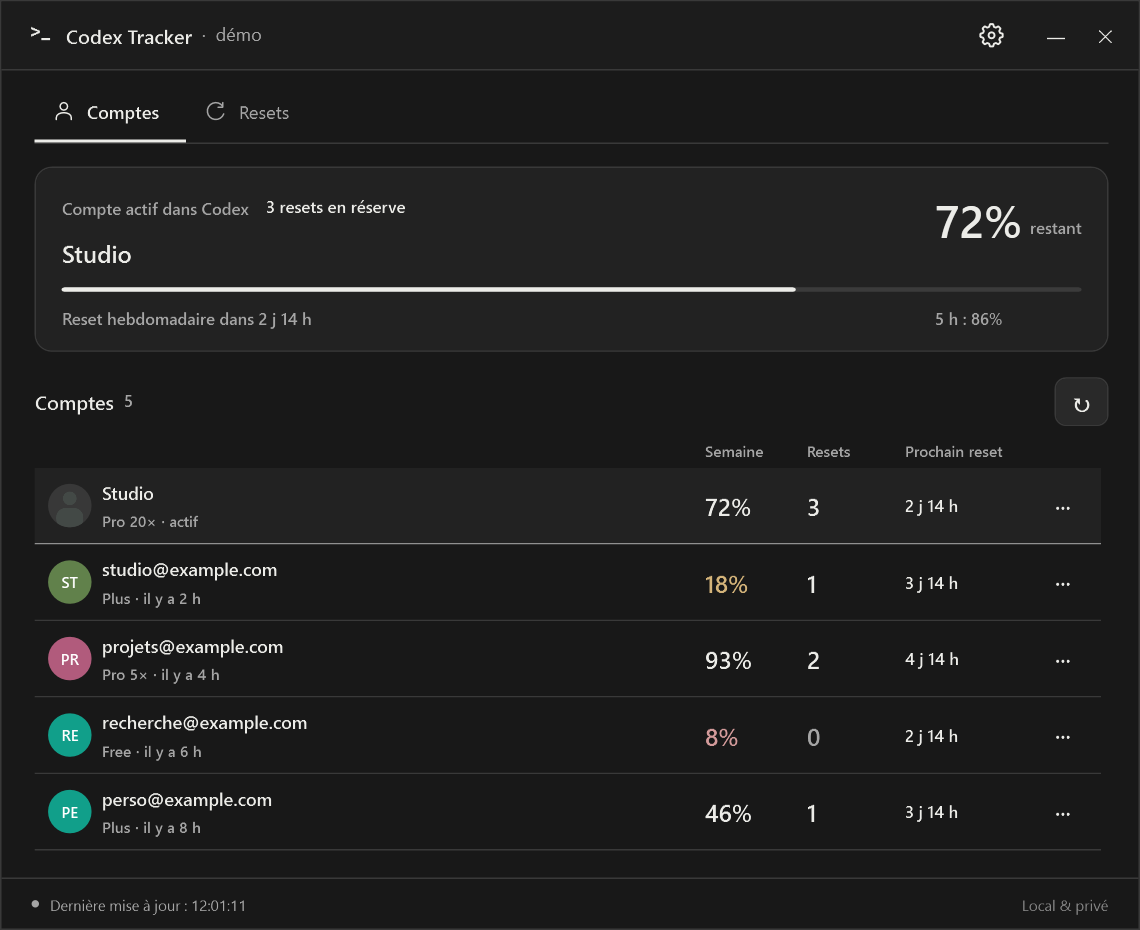
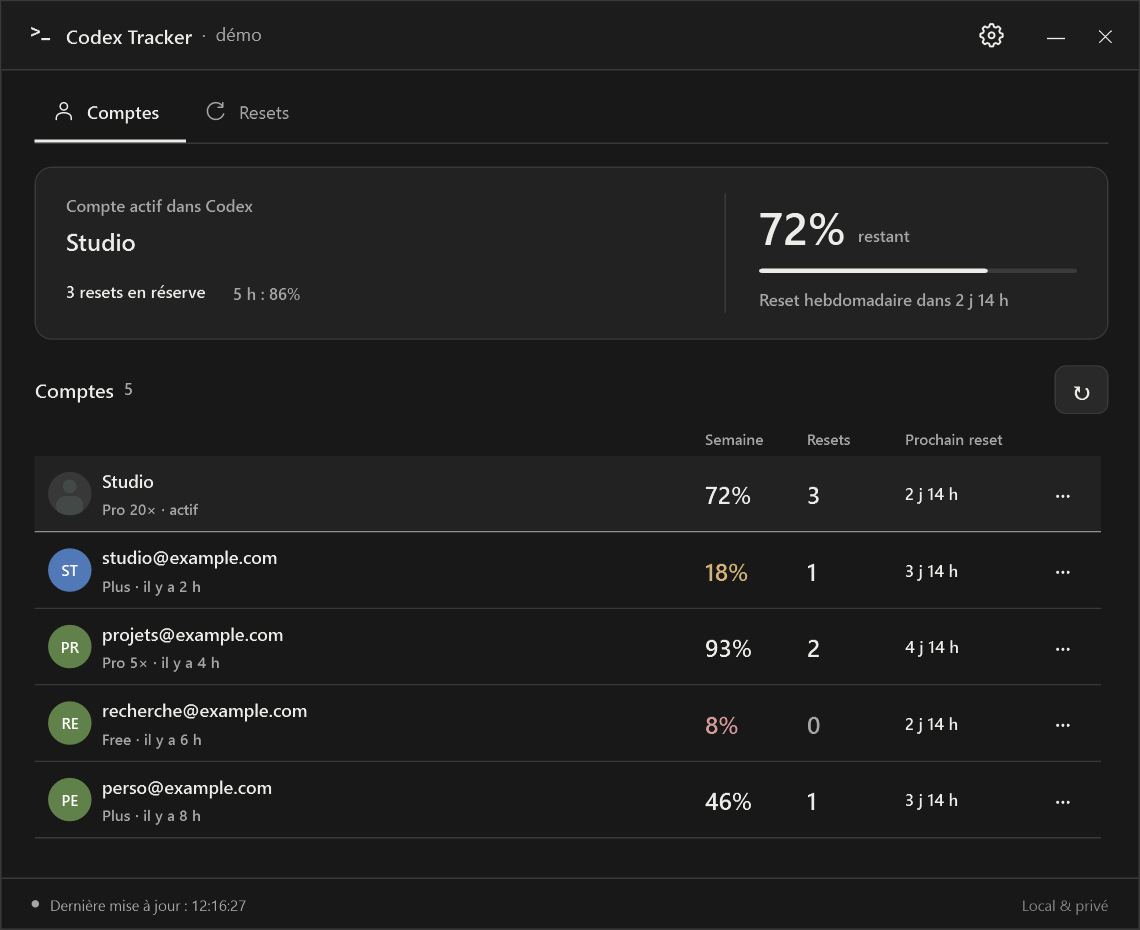
Clarify reset types and apply the two-zone account summary

diff --git a/src/CodexTracker.App/MainWindow.xaml b/src/CodexTracker.App/MainWindow.xaml
@@ -19,12 +19,32 @@
    <TabItem Header="Comptes" Tag="{StaticResource AccountsIcon}" Style="{StaticResource MainTabStyle}">
    <Grid Margin="0,15,0,0"><Grid.RowDefinitions><RowDefinition Height="Auto"/><RowDefinition Height="Auto"/><RowDefinition Height="Auto"/><RowDefinition Height="Auto"/><RowDefinition Height="*"/></Grid.RowDefinitions>
    <Border Background="{DynamicResource PanelBrush}" BorderBrush="{DynamicResource LineBrush}" BorderThickness="1" CornerRadius="9" Padding="13,10" Margin="0,0,0,13" Visibility="{Binding ShowOnboarding, Converter={StaticResource BoolVisibility}}"><Grid><Grid.ColumnDefinitions><ColumnDefinition Width="*"/><ColumnDefinition Width="Auto"/></Grid.ColumnDefinitions><TextBlock Text="Changez de compte dans Codex : le tracker suit automatiquement. Glissez son icône près de l’horloge pour la garder visible." TextWrapping="Wrap" Foreground="{DynamicResource MutedBrush}" FontSize="11" Margin="0,0,14,0"/><Button Grid.Column="1" Content="Compris" Click="Onboarding_Click" Padding="9,5" VerticalAlignment="Center"/></Grid></Border>
-   <Border Grid.Row="1" Background="{DynamicResource PanelBrush}" BorderBrush="{DynamicResource LineBrush}" BorderThickness="1" CornerRadius="11" Padding="17,14" Visibility="{Binding HasActive, Converter={StaticResource BoolVisibility}}"><Grid><Grid.RowDefinitions><RowDefinition Height="Auto"/><RowDefinition Height="Auto"/><RowDefinition Height="Auto"/></Grid.RowDefinitions><Grid.ColumnDefinitions><ColumnDefinition Width="*"/><ColumnDefinition Width="Auto"/></Grid.ColumnDefinitions>
-        <StackPanel><WrapPanel VerticalAlignment="Center"><TextBlock Text="{Binding Active.SummaryLabel}" Foreground="{DynamicResource MutedBrush}" FontSize="11" VerticalAlignment="Center" Margin="0,0,12,0"/><Border Style="{StaticResource ReserveMetric}" Margin="0,0,8,0"><Border.ToolTip><ToolTip Content="{Binding Active.ReserveHint}" ContentTemplate="{StaticResource ReserveTooltip}"/></Border.ToolTip><TextBlock Text="{Binding Active.ReserveSummary}" Foreground="{Binding Active.ReserveBrush}" FontSize="11" FontWeight="SemiBold"/></Border></WrapPanel><TextBlock Text="{Binding Active.Email}" FontSize="16" FontWeight="SemiBold" TextTrimming="CharacterEllipsis" Margin="0,5,15,0" ToolTip="{Binding Active.Email}"/></StackPanel>
-    <StackPanel Grid.Column="1" HorizontalAlignment="Right"><StackPanel Orientation="Horizontal"><TextBlock Text="{Binding Active.WeeklyNumber}" FontFamily="Segoe UI" TextOptions.TextFormattingMode="Ideal" FontSize="30" FontWeight="SemiBold" Foreground="{Binding Active.WeeklyBrush}"/><TextBlock Text=" restant" Foreground="{DynamicResource MutedBrush}" FontSize="11" VerticalAlignment="Bottom" Margin="2,0,0,7"/></StackPanel></StackPanel>
-    <ProgressBar Grid.Row="1" Grid.ColumnSpan="2" Value="{Binding Active.WeeklyPercent, Mode=OneWay}" Foreground="{Binding Active.WeeklyBrush}" Margin="0,12,0,10"/>
-    <TextBlock Grid.Row="2" Text="{Binding Active.SummaryReset}" ToolTip="{Binding Active.ResetHint}" Foreground="{DynamicResource MutedBrush}" FontSize="11" TextTrimming="CharacterEllipsis" Margin="0,0,12,0"/><TextBlock Grid.Row="2" Grid.Column="1" Text="{Binding Active.ShortSummary}" Foreground="{DynamicResource MutedBrush}" FontSize="11"/>
-   </Grid></Border>
+   <Border x:Name="ActiveAccountCard" Grid.Row="1" Background="{DynamicResource PanelBrush}" BorderBrush="{DynamicResource LineBrush}" BorderThickness="1" CornerRadius="11" Padding="20,17" Visibility="{Binding HasActive, Converter={StaticResource BoolVisibility}}">
+    <Grid>
+     <Grid.ColumnDefinitions><ColumnDefinition Width="*"/><ColumnDefinition Width="235"/></Grid.ColumnDefinitions>
+     <StackPanel Margin="0,0,22,0" VerticalAlignment="Center">
+      <TextBlock Text="{Binding Active.SummaryLabel}" Foreground="{DynamicResource MutedBrush}" FontSize="11"/>
+      <TextBlock Text="{Binding Active.Email}" FontSize="16" FontWeight="SemiBold" TextTrimming="CharacterEllipsis" Margin="0,5,0,0" ToolTip="{Binding Active.Email}"/>
+      <WrapPanel Margin="0,11,0,0">
+       <Border Style="{StaticResource ReserveMetric}" Margin="0,0,18,0">
+        <Border.ToolTip><ToolTip Content="{Binding Active.ReserveHint}" ContentTemplate="{StaticResource ReserveTooltip}"/></Border.ToolTip>
+        <TextBlock Text="{Binding Active.ReserveSummary}" Foreground="{Binding Active.ReserveBrush}" FontSize="11" FontWeight="SemiBold"/>
+       </Border>
+       <TextBlock Text="{Binding Active.ShortSummary}" Foreground="{DynamicResource MutedBrush}" FontSize="11" VerticalAlignment="Center"/>
+      </WrapPanel>
+     </StackPanel>
+     <Border Grid.Column="1" BorderBrush="{DynamicResource LineBrush}" BorderThickness="1,0,0,0" Padding="22,0,0,0">
+      <StackPanel VerticalAlignment="Center">
+       <StackPanel Orientation="Horizontal">
+        <TextBlock Text="{Binding Active.WeeklyNumber}" TextOptions.TextFormattingMode="Ideal" FontSize="30" FontWeight="SemiBold" Foreground="{Binding Active.WeeklyBrush}"/>
+        <TextBlock Text="restant" Foreground="{DynamicResource MutedBrush}" FontSize="11" VerticalAlignment="Bottom" Margin="8,0,0,7"/>
+       </StackPanel>
+       <ProgressBar Value="{Binding Active.WeeklyPercent, Mode=OneWay}" Foreground="{Binding Active.WeeklyBrush}" Margin="0,8,0,10"/>
+       <TextBlock Text="{Binding Active.SummaryReset}" ToolTip="{Binding Active.ResetHint}" Foreground="{DynamicResource MutedBrush}" FontSize="11" TextWrapping="Wrap"/>
+      </StackPanel>
+     </Border>
+    </Grid>
+   </Border>
    <Grid Grid.Row="2" Margin="1,9,0,0" Visibility="{Binding HasAdvice, Converter={StaticResource BoolVisibility}}" ToolTip="{Binding AdviceHint}">
     <Grid.ColumnDefinitions><ColumnDefinition Width="*"/><ColumnDefinition Width="Auto"/></Grid.ColumnDefinitions>
     <StackPanel><TextBlock Text="{Binding AdviceTitle}" FontSize="11" TextTrimming="CharacterEllipsis"/><TextBlock Text="{Binding AdviceAge}" FontSize="10" Foreground="{DynamicResource MutedBrush}" Margin="0,3,0,0"/></StackPanel>

diff --git a/src/CodexTracker.App/App.xaml b/src/CodexTracker.App/App.xaml
@@ -16,6 +16,12 @@
   <Style TargetType="ProgressBar"><Setter Property="Height" Value="3"/><Setter Property="Background" Value="{DynamicResource TrackBrush}"/><Setter Property="BorderThickness" Value="0"/><Setter Property="Foreground" Value="{DynamicResource AccentBrush}"/><Setter Property="Template"><Setter.Value><ControlTemplate TargetType="ProgressBar"><Grid><Border Background="{TemplateBinding Background}" CornerRadius="2"/><Border x:Name="PART_Track"/><Border x:Name="PART_Indicator" Background="{TemplateBinding Foreground}" HorizontalAlignment="Left" CornerRadius="2"/></Grid></ControlTemplate></Setter.Value></Setter></Style>
   <Style TargetType="CheckBox"><Setter Property="Foreground" Value="{DynamicResource TextBrush}"/><Setter Property="FontSize" Value="12"/><Setter Property="Cursor" Value="Hand"/><Setter Property="Template"><Setter.Value><ControlTemplate TargetType="CheckBox"><Grid><Grid.ColumnDefinitions><ColumnDefinition Width="20"/><ColumnDefinition Width="*"/></Grid.ColumnDefinitions><Border x:Name="Box" Width="17" Height="17" BorderBrush="{DynamicResource LineBrush}" BorderThickness="1" Background="{DynamicResource ButtonBrush}" CornerRadius="4"><TextBlock x:Name="Mark" Text="✓" Visibility="Collapsed" FontSize="12" FontWeight="SemiBold" HorizontalAlignment="Center" VerticalAlignment="Center"/></Border><ContentPresenter Grid.Column="1" Margin="8,0,0,0" VerticalAlignment="Center"/></Grid><ControlTemplate.Triggers><Trigger Property="IsChecked" Value="True"><Setter TargetName="Mark" Property="Visibility" Value="Visible"/><Setter TargetName="Box" Property="BorderBrush" Value="{DynamicResource FocusBrush}"/></Trigger><Trigger Property="IsKeyboardFocused" Value="True"><Setter TargetName="Box" Property="BorderBrush" Value="{DynamicResource TextBrush}"/></Trigger><Trigger Property="IsEnabled" Value="False"><Setter Property="Opacity" Value="0.4"/></Trigger></ControlTemplate.Triggers></ControlTemplate></Setter.Value></Setter></Style>
   <Geometry x:Key="AccountsIcon">M16,7 A4,4 0 1 1 8,7 A4,4 0 1 1 16,7 M4,21 L4,19 C4,12 20,12 20,19 L20,21</Geometry>
+  <Geometry x:Key="ResetClockIcon">M21,12 A9,9 0 1 1 3,12 A9,9 0 1 1 21,12 M12,6 L12,12 16,14</Geometry>
+  <Geometry x:Key="ResetReserveIcon">M4,6 L20,6 20,20 4,20 Z M3,3 L21,3 21,6 3,6 Z M9,11 L15,11 M12,8 L12,14</Geometry>
+  <Style x:Key="ResetKindFilter" TargetType="RadioButton">
+   <Setter Property="Foreground" Value="{DynamicResource MutedBrush}"/><Setter Property="FontSize" Value="12"/><Setter Property="Padding" Value="12,7"/><Setter Property="Cursor" Value="Hand"/>
+   <Setter Property="Template"><Setter.Value><ControlTemplate TargetType="RadioButton"><Border x:Name="Filter" Background="Transparent" BorderThickness="1" BorderBrush="Transparent" CornerRadius="6" Padding="{TemplateBinding Padding}"><ContentPresenter VerticalAlignment="Center"/></Border><ControlTemplate.Triggers><Trigger Property="IsChecked" Value="True"><Setter TargetName="Filter" Property="Background" Value="{DynamicResource PanelBrush}"/><Setter Property="Foreground" Value="{DynamicResource TextBrush}"/><Setter Property="FontWeight" Value="SemiBold"/></Trigger><Trigger Property="IsMouseOver" Value="True"><Setter TargetName="Filter" Property="Background" Value="{DynamicResource ButtonHoverBrush}"/></Trigger><Trigger Property="IsKeyboardFocused" Value="True"><Setter TargetName="Filter" Property="BorderBrush" Value="{DynamicResource FocusBrush}"/></Trigger></ControlTemplate.Triggers></ControlTemplate></Setter.Value></Setter>
+  </Style>
   <Geometry x:Key="SettingsGeneralIcon">M4,7 L20,7 M4,17 L20,17 M8,4 L8,10 M16,14 L16,20</Geometry>
   <Geometry x:Key="SettingsNotificationsIcon">M6,10 C6,2 18,2 18,10 L18,15 21,18 3,18 6,15 Z M9,21 L15,21</Geometry>
   <Geometry x:Key="SettingsApplicationIcon">M3,4 L21,4 21,20 3,20 Z M3,9 L21,9 M7,6.5 L7.1,6.5 M10,6.5 L10.1,6.5</Geometry>

diff --git a/src/CodexTracker.App/ResetsView.cs b/src/CodexTracker.App/ResetsView.cs
@@ -17,29 +17,43 @@ internal sealed class ResetsView : UserControl
     private TrackerState _state = new([], null);
     private DateTimeOffset? _nextBoundary;
     private bool _syncing;
+    private ResetKind? _kindFilter;
 
     internal ResetsView(PreferencesStore preferences, Action<Guid?> calendar, Action refresh)
     {
         _preferences = preferences;
-        var root = new Grid { Margin = new Thickness(0, 17, 0, 0) };
+        var root = new Grid { Margin = new Thickness(0, 15, 0, 0) };
+        root.RowDefinitions.Add(new RowDefinition { Height = GridLength.Auto });
         root.RowDefinitions.Add(new RowDefinition { Height = GridLength.Auto });
         root.RowDefinitions.Add(new RowDefinition { Height = GridLength.Auto });
         root.RowDefinitions.Add(new RowDefinition());
         var heading = new Grid(); heading.ColumnDefinitions.Add(new ColumnDefinition()); heading.ColumnDefinitions.Add(new ColumnDefinition { Width = GridLength.Auto });
-        var title = Ui.Text("Les échéances de vos comptes", 20); title.FontWeight = FontWeights.SemiBold; heading.Children.Add(title);
-        var export = new Button { Content = "Google Agenda ↗", Style = (Style)FindResource("QuietButton"), VerticalAlignment = VerticalAlignment.Top, Margin = new Thickness(12, 0, 0, 0), ToolTip = "Ajouter une échéance ou importer les dates dans un agenda" };
+        var title = Ui.Text("Calendrier des resets", 20); title.FontWeight = FontWeights.SemiBold; heading.Children.Add(title);
+        var export = new Button { Content = "Google Agenda ↗", Style = (Style)FindResource("QuietButton"), VerticalAlignment = VerticalAlignment.Top, Margin = new Thickness(12, 0, 0, 0), ToolTip = "Options Google Agenda pour le compte sélectionné, tous les types de resets" };
         Grid.SetColumn(export, 1); heading.Children.Add(export);
         var introduction = new StackPanel(); introduction.Children.Add(heading); _summary.Margin = new Thickness(0, 7, 0, 5); introduction.Children.Add(_summary); introduction.Children.Add(_reserves); root.Children.Add(introduction);
 
-        var filters = new Grid { Margin = new Thickness(0, 18, 0, 12) }; filters.ColumnDefinitions.Add(new ColumnDefinition { Width = new GridLength(230) }); filters.ColumnDefinitions.Add(new ColumnDefinition()); filters.ColumnDefinitions.Add(new ColumnDefinition { Width = GridLength.Auto });
+        var filters = new Grid { Margin = new Thickness(0, 14, 0, 10) }; filters.ColumnDefinitions.Add(new ColumnDefinition { Width = new GridLength(230) }); filters.ColumnDefinitions.Add(new ColumnDefinition()); filters.ColumnDefinitions.Add(new ColumnDefinition { Width = GridLength.Auto });
         _accounts = new ComboBox { DisplayMemberPath = "Label", SelectedValuePath = "Id", Tag = FindResource("AccountsIcon") };
         export.Click += (_, _) => calendar((_accounts.SelectedItem as ResetAccountChoice)?.Id);
         System.Windows.Automation.AutomationProperties.SetName(_accounts, "Filtrer les resets par compte");
         _accounts.SelectionChanged += (_, _) => { if (!_syncing) Render(); }; filters.Children.Add(_accounts);
         _refresh = new Button { Content = "Actualiser", Style = (Style)FindResource("QuietButton"), ToolTip = "Actualise le compte actif dans Codex ; les autres conservent leur dernier relevé" };
         _refresh.Click += (_, _) => refresh(); Grid.SetColumn(_refresh, 2); filters.Children.Add(_refresh); Grid.SetRow(filters, 1); root.Children.Add(filters);
+        var kinds = new WrapPanel { Margin = new Thickness(0, 0, 0, 3) };
+        foreach (var (kind, label) in new (ResetKind?, string)[] { (null, "Tous"), (ResetKind.Weekly, "Hebdomadaires"), (ResetKind.Short, "5 heures"), (ResetKind.Reserve, "Réserves") })
+        {
+            var content = new StackPanel { Orientation = Orientation.Horizontal };
+            if (kind is { } value) { var icon = KindIcon(value, 14); icon.Margin = new Thickness(0, 0, 7, 0); content.Children.Add(icon); }
+            content.Children.Add(new TextBlock { Text = label, VerticalAlignment = VerticalAlignment.Center });
+            var choice = new RadioButton { Content = content, Tag = kind, GroupName = "ResetKinds", IsChecked = kind is null, Style = (Style)FindResource("ResetKindFilter"), Margin = new Thickness(0, 0, 4, 0) };
+            System.Windows.Automation.AutomationProperties.SetName(choice, label);
+            choice.Checked += (_, _) => { _kindFilter = kind; Render(); };
+            kinds.Children.Add(choice);
+        }
+        Grid.SetRow(kinds, 2); root.Children.Add(kinds);
         var scroll = new ScrollViewer { Content = _timeline, VerticalScrollBarVisibility = ScrollBarVisibility.Auto, HorizontalScrollBarVisibility = ScrollBarVisibility.Disabled };
-        Grid.SetRow(scroll, 2); root.Children.Add(scroll); Content = root;
+        Grid.SetRow(scroll, 3); root.Children.Add(scroll); Content = root;
     }
     internal void Update(TrackerState state)
     {
@@ -59,7 +73,7 @@ internal sealed class ResetsView : UserControl
     {
         var accountId = (_accounts.SelectedItem as ResetAccountChoice)?.Id;
         var accounts = _state.Accounts.Where(a => accountId is null || a.Profile.Id == accountId).ToArray();
-        var entries = ResetSchedule.Entries(_state, accountId);
+        var entries = ResetSchedule.Entries(_state, accountId).Where(e => _kindFilter is null || e.Kind == _kindFilter).ToArray();
         var now = DateTimeOffset.UtcNow;
         var future = entries.Where(e => e.At > now).ToArray();
         var reached = entries.Where(e => e.At <= now).OrderByDescending(e => e.At).ToArray();
@@ -72,7 +86,7 @@ internal sealed class ResetsView : UserControl
         AddGroup("À venir", future);
         AddGroup("Dates atteintes · à vérifier", reached);
         AddGroup("Dates non communiquées", unknown, showCount: false);
-        if (entries.Count == 0) { var empty = Ui.Text("Aucune échéance à afficher pour le moment.", 13, "MutedBrush"); empty.Margin = new Thickness(0, 24, 0, 0); _timeline.Children.Add(empty); }
+        if (entries.Length == 0) { var empty = Ui.Text(_kindFilter == ResetKind.Reserve ? "Aucune réserve à afficher pour cette sélection." : "Aucune échéance à afficher pour cette sélection.", 13, "MutedBrush"); empty.Margin = new Thickness(0, 24, 0, 0); _timeline.Children.Add(empty); }
         _nextBoundary = future.FirstOrDefault()?.At;
         UpdateTimes(now);
     }
@@ -82,24 +96,38 @@ internal sealed class ResetsView : UserControl
         var heading = Ui.Text(showCount ? $"{title}  ·  {entries.Count}" : title, 12, "MutedBrush"); heading.FontWeight = FontWeights.SemiBold; heading.Margin = new Thickness(0, 13, 0, 7); _timeline.Children.Add(heading);
         foreach (var entry in entries)
         {
-            var row = new Grid(); row.ColumnDefinitions.Add(new ColumnDefinition()); row.ColumnDefinitions.Add(new ColumnDefinition { Width = new GridLength(190) });
-            var identity = new StackPanel { Margin = new Thickness(0, 0, 18, 0) };
-            var account = Ui.Text(AccountName(entry.Account), 12); account.FontWeight = FontWeights.SemiBold; identity.Children.Add(account);
-            var kind = entry.Kind switch { ResetKind.Weekly => "Reset hebdomadaire", ResetKind.Short => "Reset de la fenêtre 5 heures", _ => "Expiration d’un reset en réserve" };
-            if (entry.IsUndetailedReserve) kind = entry.Account.Snapshot?.ResetCredits is { Count: > 0 } ? "Autres réserves · dates non communiquées" : "Expiration des resets en réserve";
-            var detail = Ui.Text(kind, 11, "MutedBrush"); detail.Margin = new Thickness(0, 4, 0, 0); identity.Children.Add(detail);
+            var row = new Grid(); row.ColumnDefinitions.Add(new ColumnDefinition { Width = new GridLength(46) }); row.ColumnDefinitions.Add(new ColumnDefinition()); row.ColumnDefinitions.Add(new ColumnDefinition { Width = new GridLength(177) });
+            var marker = new Border { Width = 32, Height = 32, CornerRadius = new CornerRadius(8), Child = KindIcon(entry.Kind, 18), HorizontalAlignment = HorizontalAlignment.Left, VerticalAlignment = VerticalAlignment.Top, Margin = new Thickness(0, 2, 0, 0) };
+            marker.SetResourceReference(Border.BackgroundProperty, "PanelBrush"); row.Children.Add(marker);
+            var identity = new StackPanel { Margin = new Thickness(0, 0, 14, 0) };
+            var kind = entry.Kind switch { ResetKind.Weekly => "Reset hebdomadaire", ResetKind.Short => "Reset 5 heures", _ => "Expiration de réserve" };
+            if (entry.IsUndetailedReserve) kind = "Réserves sans date";
+            var detail = Ui.Text(kind, 13); detail.FontWeight = FontWeights.SemiBold; identity.Children.Add(detail);
+            if (!string.IsNullOrWhiteSpace(entry.CreditTitle))
+            {
+                var creditTitle = Ui.Text(entry.CreditTitle, 11, "MutedBrush"); creditTitle.Margin = new Thickness(0, 3, 0, 0); creditTitle.TextWrapping = TextWrapping.NoWrap; creditTitle.TextTrimming = TextTrimming.CharacterEllipsis; creditTitle.ToolTip = entry.CreditTitle; identity.Children.Add(creditTitle);
+            }
+            var account = Ui.Text(AccountName(entry.Account), 12); account.Margin = new Thickness(0, 4, 0, 0); account.TextWrapping = TextWrapping.NoWrap; account.TextTrimming = TextTrimming.CharacterEllipsis; account.ToolTip = entry.Account.Profile.Email; identity.Children.Add(account);
             var freshness = Ui.Text("", 11, "MutedBrush"); freshness.Margin = new Thickness(0, 4, 0, 0); identity.Children.Add(freshness);
             if (entry.GrantedAt is { } granted) { var receipt = Ui.Text($"Reçu le {Display.Exact(granted)}", 11, "MutedBrush"); receipt.Margin = new Thickness(0, 4, 0, 0); receipt.ToolTip = Display.Zone(granted); identity.Children.Add(receipt); }
-            row.Children.Add(identity);
-            var timing = new StackPanel { HorizontalAlignment = HorizontalAlignment.Right };
-            var exact = Ui.Text(entry.At is null ? "Date indisponible" : Display.Exact(entry.At), 12); exact.FontWeight = FontWeights.SemiBold; timing.Children.Add(exact);
-            var countdown = Ui.Text("", 11, "MutedBrush"); countdown.Margin = new Thickness(0, 4, 0, 0); timing.Children.Add(countdown);
-            if (entry.At is { } at) { var zone = Ui.Text($"UTC{at.ToLocalTime():zzz}", 11, "MutedBrush"); zone.Margin = new Thickness(0, 4, 0, 0); zone.ToolTip = Display.Zone(at); timing.Children.Add(zone); }
-            Grid.SetColumn(timing, 1); row.Children.Add(timing);
+            Grid.SetColumn(identity, 1); row.Children.Add(identity);
+            var timing = new StackPanel { HorizontalAlignment = HorizontalAlignment.Stretch };
+            var exact = Ui.Text(entry.At is null ? "Date indisponible" : entry.At.Value.ToLocalTime().ToString("dd/MM/yyyy"), 13); exact.FontWeight = FontWeights.SemiBold; exact.TextAlignment = TextAlignment.Right; timing.Children.Add(exact);
+            if (entry.At is { } at) { var clock = Ui.Text($"{at.ToLocalTime():HH:mm:ss} · UTC{at.ToLocalTime():zzz}", 11, "MutedBrush"); clock.Margin = new Thickness(0, 4, 0, 0); clock.TextAlignment = TextAlignment.Right; clock.ToolTip = $"{Display.Exact(at)}\n{Display.Zone(at)}"; timing.Children.Add(clock); }
+            var countdown = Ui.Text("", 11, "MutedBrush"); countdown.Margin = new Thickness(0, 4, 0, 0); countdown.TextAlignment = TextAlignment.Right; timing.Children.Add(countdown);
+            Grid.SetColumn(timing, 2); row.Children.Add(timing);
             var border = new Border { Child = row, Background = Brushes.Transparent, BorderThickness = new Thickness(0, 0, 0, 1), Padding = new Thickness(0, 12, 7, 13) }; border.SetResourceReference(Border.BorderBrushProperty, "LineBrush");
             border.ToolTip = entry.Account.Snapshot is { } snapshot ? $"Dernier relevé : {Display.Exact(snapshot.FetchedAt)}\n{Display.Zone(snapshot.FetchedAt)}\n{Display.ReserveSummary(snapshot)}\n{entry.CreditTitle}\n{entry.Account.Error}" : "Aucun relevé disponible pour ce compte.";
             _timeline.Children.Add(border); _rows.Add((entry, countdown, freshness));
         }
+    }
+    private FrameworkElement KindIcon(ResetKind kind, double size)
+    {
+        var key = kind switch { ResetKind.Weekly => "DropdownCalendarIcon", ResetKind.Short => "ResetClockIcon", _ => "ResetReserveIcon" };
+        var path = new System.Windows.Shapes.Path { Data = (Geometry)FindResource(key), StrokeThickness = 1.6, StrokeStartLineCap = PenLineCap.Round, StrokeEndLineCap = PenLineCap.Round, StrokeLineJoin = PenLineJoin.Round };
+        path.SetResourceReference(System.Windows.Shapes.Shape.StrokeProperty, "MutedBrush");
+        var canvas = new Canvas { Width = 24, Height = 24 }; canvas.Children.Add(path);
+        return new Viewbox { Width = size, Height = size, Child = canvas, VerticalAlignment = VerticalAlignment.Center };
     }
     internal void Tick()
     {

diff --git a/tests/CodexTracker.UiSmoke/FeatureChecks.cs b/tests/CodexTracker.UiSmoke/FeatureChecks.cs
@@ -52,6 +52,27 @@ internal static class FeatureChecks
                 && !Tree(resets).OfType<TextBlock>().Any(t => t.Text == service.State.Accounts[1].Profile.Email), "Resets account filter isolates schedule rows");
             resets.Update(service.State);
             Check(resetFilter.SelectedIndex == 1, "Refresh preserves the resets account filter");
+            var kindFilters = Tree(resets).OfType<RadioButton>().ToArray();
+            var weeklyFilter = kindFilters.Single(r => r.Tag is ResetKind.Weekly);
+            weeklyFilter.IsChecked = true; window.UpdateLayout();
+            var timeline = Field<StackPanel>(resets, "_timeline");
+            var weeklyLabels = Tree(timeline).OfType<TextBlock>().Select(t => t.Text).ToArray();
+            Check(weeklyLabels.Contains("Reset hebdomadaire") && !weeklyLabels.Contains("Reset 5 heures") && !weeklyLabels.Contains("Expiration de réserve"), "Weekly filter shows only weekly resets for the selected account");
+            resets.Update(service.State);
+            Check(weeklyFilter.IsChecked == true && resetFilter.SelectedIndex == 1, "Refresh preserves both account and reset type filters");
+            kindFilters.Single(r => r.Tag is ResetKind.Short).IsChecked = true; window.UpdateLayout();
+            var shortLabels = Tree(timeline).OfType<TextBlock>().Select(t => t.Text).ToArray();
+            Check(shortLabels.Contains("Reset 5 heures") && !shortLabels.Contains("Reset hebdomadaire"), "Five-hour filter uses an explicit reset type label");
+            kindFilters.Single(r => r.Tag is ResetKind.Reserve).IsChecked = true; window.UpdateLayout();
+            var reserveLabels = Tree(timeline).OfType<TextBlock>().Select(t => t.Text).ToArray();
+            Check(reserveLabels.Contains("Expiration de réserve") && reserveLabels.Contains("Réserves sans date")
+                && reserveLabels.Contains(service.State.Accounts[0].Snapshot!.ResetCredits![0].Title)
+                && reserveLabels.Any(t => t.StartsWith("Reçu le ")) && reserveLabels.Any(t => t.Contains("UTC")), "Reserve filter shows source credit title, expiry, received dates, timezone and undetailed reserves");
+            resets.Update(new([service.State.Accounts[0] with { Snapshot = service.State.Accounts[0].Snapshot! with { AvailableResetCredits = 0, ResetCredits = [] } }], id));
+            window.UpdateLayout();
+            Check(Tree(timeline).OfType<TextBlock>().Any(t => t.Text == "Aucune réserve à afficher pour cette sélection."), "Empty reserve filter never falls back to quota resets");
+            kindFilters.Single(r => r.Tag is null).IsChecked = true;
+            resets.Update(service.State);
             var oldSnapshot = service.State.Accounts[0].Snapshot! with
             {
                 Buckets = [new("codex", null, [new(80, 300, DateTimeOffset.UtcNow.AddSeconds(-1))])],

diff --git a/src/CodexTracker.Codex/AppServerClient.cs b/src/CodexTracker.Codex/AppServerClient.cs
@@ -54,7 +54,7 @@ internal sealed class AppServerClient : IAsyncDisposable
         {
             await client.RequestAsync("initialize", new
             {
-                clientInfo = new { name = "codex_tracker", title = "Codex Tracker", version = "0.5.5" },
+                clientInfo = new { name = "codex_tracker", title = "Codex Tracker", version = "0.5.6" },
                 capabilities = new { experimentalApi = true }
             }, cancellationToken);
             await client.SendAsync(new { method = "initialized", @params = new { } }, cancellationToken);

diff --git a/README.md b/README.md
@@ -49,11 +49,11 @@ Les réglages sont répartis en quatre rubriques : **Général**, **Notification
 
 ## Onglet Resets
 
-L’onglet **Resets**, à côté de **Comptes**, rassemble les échéances de tous les comptes dans une liste chronologique : fenêtres de 5 heures et hebdomadaire, expiration de chaque crédit de reset connu et date de réception. Le filtre permet de ne conserver qu’un compte. Chaque ligne affiche la date exacte, le décalage UTC, un compte à rebours et l’ancienneté du relevé ; le survol précise le fuseau et les informations reçues.
+L’onglet **Resets**, à côté de **Comptes**, rassemble les échéances de tous les comptes dans une liste chronologique. Les catégories **Hebdomadaires**, **5 heures** et **Réserves** se combinent avec le filtre par compte. Chaque ligne met le type de reset en premier, avec son icône, puis le compte concerné ; les réserves affichent aussi le titre du crédit fourni par Codex. La date, l’heure exacte avec décalage UTC et le compte à rebours sont alignés à droite. Les dates de réception et l’ancienneté du relevé restent visibles ; le survol précise le fuseau et les informations reçues.
 
 Les dates sont séparées en **À venir**, **Dates atteintes · à vérifier** et **Dates non communiquées**. Une date passée ne confirme pas un nouveau quota. Si le serveur fournit moins de dates de crédits que le compteur de réserves, une ligne signale les dates manquantes. Le total des réserves reste celui des derniers relevés, sans déduire la disponibilité depuis les dates.
 
-**Google Agenda ↗** ouvre les options d’import pour le compte filtré, ou pour tous les comptes. **Actualiser** conserve le filtre et actualise uniquement le compte actif dans Codex.
+**Google Agenda ↗** ouvre les options d’import pour le compte filtré, ou pour tous les comptes, en incluant tous les types de resets. **Actualiser** conserve les filtres et actualise uniquement le compte actif dans Codex.
 
 ![Onglet Resets avec un compte fictif](docs/resets.png)
 

diff --git a/docs/VALIDATION.md b/docs/VALIDATION.md
@@ -19,6 +19,12 @@ Contrôles effectués sur Windows 11 x64, les 20 et 21 septembre 2026. Les tests
 | Limitation GitHub réelle | Réponse anonyme limitée : échéance serveur conservée ; deuxième essai et recréation du service ne produisent aucune nouvelle requête pendant ce délai |
 | Comportements Windows | 17 tests de placement et 13 contrôles sur de vrais HWND, décrits ci-dessous |
 
+## Ajouts de la version 0.5.6
+
+- L’encart du compte actif adopte la disposition « Deux zones » : identité et réserves à gauche, quota hebdomadaire, jauge et prochain reset à droite, séparés par un filet discret.
+- L’onglet Resets met le type en premier, avec une icône distincte, le titre des crédits et les dates/heures alignées. Filtres Hebdomadaires, 5 heures et Réserves combinables avec le compte ; ils restent sélectionnés après actualisation.
+- Compilation sans avertissement et 50 contrôles WPF réussis, dont les filtres combinés, les réserves sans date et la sélection vide. Captures clair/sombre inspectées à 760 × 620 et 630 × 500, avec une adresse fictive longue ; dates des réserves et du prochain reset conservées au survol.
+
 ## Ajouts de la version 0.5.5
 
 - 224 tests métier et 45 contrôles WPF réussis. Les ajouts couvrent le tri des échéances, les dates absentes ou partielles, l’isolation par compte, les réserves inconnues ou nulles et les dates historiques conservées.
